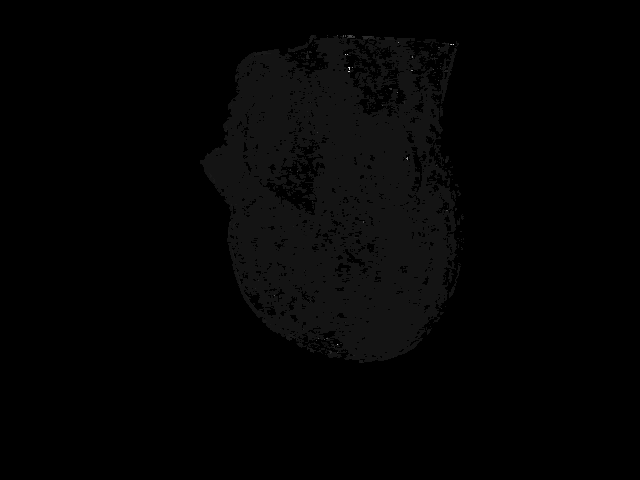
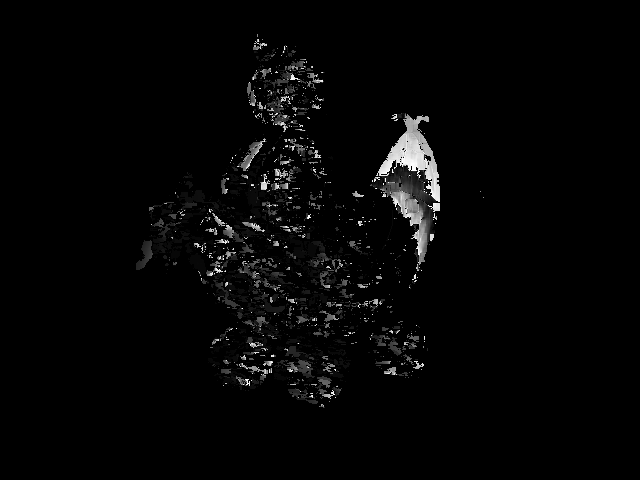
for thesis

diff --git a/src/Source.cpp b/src/Source.cpp
@@ -1,5 +1,7 @@
 #include <cstdio>
 #include <iostream>
+#include <time.h>
+
 #include "utils.h"
 #include "dataset_helper.h"
 #include "pose_estimation2d2d.h"
@@ -63,6 +65,7 @@ int main() {
 	cout << G.w << endl;
 
 	jhw_gl::GLInit(G.w, G.h);
+	
 /*
 	u32 *i1_rec = nullptr, *i2_rec = nullptr;
 	
@@ -120,9 +123,9 @@ int main() {
 	fscanf(fin, " %s", path1);
 	i1 = (u32*)DH.readImage(path1);
 	//CameraPose p1(G.Intrinsic, Eigen::Matrix3d::Identity(), Eigen::Vector3d(0, 0, 5));
-	CameraPose p1(G.Intrinsic, Eigen::AngleAxisd(-0.5, Eigen::Vector3d(0.0, 1.0, 0.0).normalized()).toRotationMatrix(), Eigen::Vector3d(0, 0, 5));
+	CameraPose p1(G.Intrinsic, Eigen::AngleAxisd(-0.5, Eigen::Vector3d(0.0, 1.0, 0.0).normalized()).toRotationMatrix(), Eigen::Vector3d(0, 0, 25));
 	CameraPose p0 = p1;
-	for (int index = 1; index < 100; ++index) {
+	for (int index = 1; index < 50; ++index) {
 		cout << "index: " << index << endl;
  		fscanf(fin, "%s", path2);
 		i2 = (u32*)DH.readImage(path2);
@@ -132,10 +135,11 @@ int main() {
 		u8		*yy = nullptr;
 
 		CameraPose p2;
+		
 		Eigen::Matrix3d R = Eigen::AngleAxisd(index * 0.05 -0.5, Eigen::Vector3d(0.0, 1.0, 0.0).normalized()).toRotationMatrix();
 		//cout << "R = " << endl;
 		//cout << R << endl;
-		Eigen::Vector3d t = Eigen::Vector3d(0.0, double(index) / 100, 5) ;
+		Eigen::Vector3d t = Eigen::Vector3d(0.0, double(index) / 100, 25) ;
 		p2 = mf::CameraPose(G.Intrinsic, R, t);
 		/*
 		//2d2d
@@ -170,11 +174,20 @@ int main() {
 
 
 		u32 *i1_rec = nullptr, *i2_rec = nullptr;
-		
+		LARGE_INTEGER t1, t2, freq;
+		QueryPerformanceFrequency(&freq);
+
 		CameraPose p1_rec, p2_rec;
 		ImageRectification imagerectify;
 		imagerectify.init();
+
+		//QueryPerformanceCounter(&t1);
 		imagerectify.image_rectification(i1, i2, p1, p2, &i1_rec, &i2_rec, p1_rec, p2_rec);
+		//QueryPerformanceCounter(&t2);
+
+		//cout << "time: " << (t2.QuadPart - t1.QuadPart) * 1000.0 / freq.QuadPart << endl;
+		//scanf("%*d");
+
 		DH.writeImage(i1_rec, "out1.png");
 		DH.writeImage(i2_rec, "out2.png");
 		
@@ -182,21 +195,40 @@ int main() {
 		cout << "init ok? " << stereomatch.init(StereoMatching::STEREOMATCH_ZNCC) << endl;
 		//float *depth = stereomatch.stereo_matching(i1_rec, p1_rec, i2_rec, p2_rec, 2, 3);
 		float *del1 = nullptr, *del2 = nullptr;
-		stereomatch.disparity_estimation(i1_rec, i2_rec, &del1, &del2);
-		float *depth = stereomatch.lrcheck_and_depth(del1, del2, (p1_rec.center-p2_rec.center).norm(), 2);
+		//stereomatch.disparity_estimation(i1_rec, i2_rec, &del1, &del2, 3);
 
+		stereomatch.disparity_estimation(i1, i2, &del1, &del2, 3);
+
+		float *depth = stereomatch.lrcheck_and_depth(del1, del2, (p1_rec.center - p2_rec.center).norm(), 5);
+
+		//float *depth = stereomatch.lrcheck_and_depth(del1, del2, 1, 1);
 		
 		u8 *output_depth = (u8*)malloc(sizeof(u8) * G.w * G.h);
 		//DH.writeImage(i2_rec, "out22.png");
+
 		for (int i = 0; i < G.h; ++i) {
 			for (int j = 0; j < G.w; ++j) {
-				output_depth[i*G.w + j] = (u8)depth[i*G.w + j] * 5 ;
+				output_depth[i*G.w + j] = (u8)del1[i*G.w + j];
+			}
+		}
+		DH.writeImage(output_depth, "delta1.png", 1);
+		
+		for (int i = 0; i < G.h; ++i) {
+			for (int j = 0; j < G.w; ++j) {
+				output_depth[i*G.w + j] = (u8)del2[i*G.w + j];
+			}
+		}
+		DH.writeImage(output_depth, "delta2.png", 1);
+
+		for (int i = 0; i < G.h; ++i) {
+			for (int j = 0; j < G.w; ++j) {
+				output_depth[i*G.w + j] = (u8)depth[i*G.w + j];
 			}
 		}
 		DH.writeImage(output_depth, "depth.png", 1);
 		free(output_depth);
 		output_depth = nullptr;
-		
+		//return 0;
 
 		tsdfmodel.model_updating(i1_rec, depth, p1_rec);
 

diff --git a/src/stereo_matching.cpp b/src/stereo_matching.cpp
@@ -101,6 +101,7 @@ void StereoMatching::disparity_estimation(const u32 const *image1, const u32 con
 	m_gl_matching.setTexSub2D("tex", m_gl_matching_tex1, 0, GL_TEXTURE0, image1);
 	m_gl_matching.setTexSub2D("tex2", m_gl_matching_tex2, 1, GL_TEXTURE1, image2);
 	d1 = m_gl_matching.RenderScence<float>();
+	//m_gl_matching.testRenderScence();
 
 	m_gl_matching.setUniform1("m_w", G.w);
 	m_gl_matching.setUniform1("m_h", G.h);
@@ -109,6 +110,7 @@ void StereoMatching::disparity_estimation(const u32 const *image1, const u32 con
 	m_gl_matching.setTexSub2D("tex", m_gl_matching_tex1, 0, GL_TEXTURE0, image2);
 	m_gl_matching.setTexSub2D("tex2", m_gl_matching_tex2, 1, GL_TEXTURE1, image1);
 	d2 = m_gl_matching.RenderScence<float>();
+	//m_gl_matching.testRenderScence();
 
 	*delta1 = d1;
 	*delta2 = d2;

diff --git a/src/gl_helper.h b/src/gl_helper.h
@@ -416,6 +416,26 @@ public:
 		return new_data;
 	}
 
+
+	void testRenderScence() {
+		glClear(GL_COLOR_BUFFER_BIT | GL_DEPTH_BUFFER_BIT | GL_STENCIL_BUFFER_BIT);
+
+		glEnableVertexAttribArray(0);
+		glEnableVertexAttribArray(1);
+		glBindBuffer(GL_ARRAY_BUFFER, m_vertexBuffer);
+		m_rtt.UseRTT();
+
+		glVertexAttribPointer(0, 3, GL_FLOAT, GL_FALSE, 0, 0);
+		glVertexAttribPointer(1, 2, GL_FLOAT, GL_FALSE, 0, (const GLvoid*)(m_vertice * 3 * sizeof(float)));
+
+		glDrawArrays(GL_TRIANGLES, 0, 3 * m_triangle);
+
+		glDisableVertexAttribArray(0);
+		glDisableVertexAttribArray(1);
+
+		glBindBuffer(GL_ARRAY_BUFFER, 0);
+	}
+
 protected:
 	int			m_width;
 	int			m_height;

diff --git a/src/image_rectification.cpp b/src/image_rectification.cpp
@@ -111,12 +111,14 @@ void ImageRectification::image_rectification(const u32 *image1, const u32 *image
 	m_gl_rectify.setUniform4v("Trans", trans1);
 	m_gl_rectify.setTexSub2D("tex", m_gl_tex, 0, GL_TEXTURE0, image1);
 	rec1 = m_gl_rectify.RenderScence<u32>();
+	//m_gl_rectify.testRenderScence();
 
 	m_gl_rectify.setUniform1("m_w", G.w);
 	m_gl_rectify.setUniform1("m_h", G.h);
 	m_gl_rectify.setUniform4v("Trans", trans2);
 	m_gl_rectify.setTexSub2D("tex", m_gl_tex, 0, GL_TEXTURE0, image2);
 	rec2 = m_gl_rectify.RenderScence<u32>();
+	//m_gl_rectify.testRenderScence();
 
 	*image1_rec = rec1;
 	*image2_rec = rec2;
